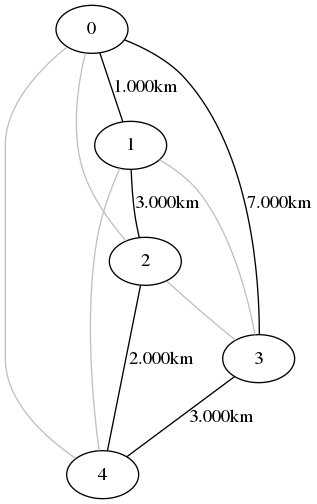
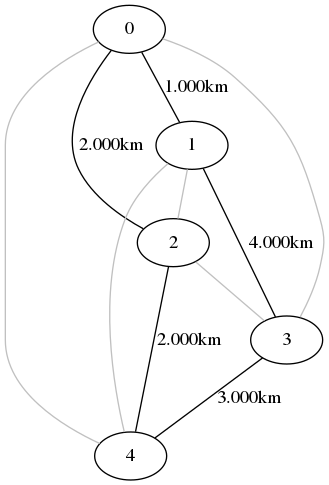
busca local com trocas consecutivas e 2-opt

diff --git a/src/algoritmos/buscalocal.py b/src/algoritmos/buscalocal.py
@@ -1,0 +1,78 @@
+import itertools
+def busca(dic_instancia, rota, custo):
+    #funcao pra busca local trocando consecutivos
+    d = dic_instancia["distancia"]
+    N = len(rota)
+    rota[-1] = N-1
+    # print(N)
+    melhor = True
+    while melhor:
+        melhor = False
+        melhor_rota, melhor_custo = rota, custo 
+        for i in range(1, N-2):
+            cur = rota[i]
+            prev = rota[i-1]
+            nxt = rota[i+1]
+            novo_custo = custo - d[prev][cur] - d[cur][nxt] - d[nxt][rota[i+2]] # remove arestas antigas
+            novo_custo += d[prev][nxt] + d[nxt][cur] + d[cur][rota[i+2]]    # acrescenta arestas novas
+            # print("novo custo = %.3f\n" %novo_custo)
+            if novo_custo < melhor_custo and novo_custo > 0:
+                melhor_custo = novo_custo
+                rota[i], rota[i+1] = rota[i+1], rota[i]
+                melhor_rota = rota.copy()
+                # print(rota)
+                # print()
+                rota[i], rota[i+1] = rota[i+1], rota[i]
+                melhor = True
+        rota = melhor_rota
+        custo = melhor_custo
+        # print(custo)
+    rota[-1] = 0
+    return rota, custo
+
+def two_opt(dic_instancia, rota, custo):
+    d = dic_instancia["distancia"]
+    N = len(rota)
+    print(N)
+    rota[-1] = N-1
+    melhor = True
+    while melhor:
+        melhor = False
+        melhor_rota, melhor_custo = rota, custo
+        for i in range(N-3):
+            for j in range(i+2, N-1):
+                cur, nxt_cur = rota[i], rota[i+1]
+                nxt, nxt_nxt = rota[j], rota[j+1]
+                rota[i+1], rota[j] = rota[j], rota[i+1]
+                novo_custo = 0
+                for k in range(N-1):
+                    novo_custo += d[k][k+1]
+                if novo_custo < melhor_custo:
+                    melhor_custo = novo_custo
+                    melhor_rota = rota.copy()
+                    melhor = True
+                rota[i+1], rota[j] = rota[j], rota[i+1]
+        rota = melhor_rota
+        custo = melhor_custo
+    rota[-1] = 0
+    return rota, custo
+
+def brute(dic_instancia):
+    d = dic_instancia["distancia"]
+    N = len(d)
+    p = []
+    for i in range(1, N-1):
+        p += [i]
+    melhor_rota, melhor_custo = [], 999999999
+    for perm in itertools.permutations(p):
+        temp = [0] + list(perm) + [N-1]
+        novo_custo = 0
+        for i in range(N-1):
+            novo_custo += d[temp[i]][temp[i+1]]
+        if novo_custo < melhor_custo:
+            melhor_custo = novo_custo
+            melhor_rota = temp.copy()
+        # print(temp)
+        # print(novo_custo)
+        # print()
+    return melhor_rota, melhor_custo

diff --git a/src/principal.py b/src/principal.py
@@ -13,6 +13,7 @@ if __name__ == "__main__":
     from src.esinstancias import entradainstancias
     from src.esinstancias import saidainstancias
     from src.algoritmos import construtivopcv
+    from src.algoritmos import buscalocal
 
 ### usado apenas como biblioteca 
 else:
@@ -20,6 +21,7 @@ else:
     from src.configuracoes import leituraconfiguracoes
     from src.esinstancias import entradainstancias
     from src.esinstancias import saidainstancias
+    from src.algoritmos import construtivopcv
     from src.algoritmos import construtivopcv
 
 ###############################################################################
@@ -63,9 +65,15 @@ def main():
                 saidainstancias.grafo_caixas_do_cliente(dic_instancia_corrente)
 
             solucao_pcv, custo_pcv = construtivopcv.pcv(dic_instancia_corrente)
-            #print(f"Solucao {instancia_corrente} = {solucao_pcv} com custo = %.3f\n" %custo_pcv)
-            saidainstancias.grafo_solucao_pcv(dic_instancia_corrente, solucao_pcv)
+            print(f"Solucao {instancia_corrente} = {solucao_pcv} com custo = %.3f\n" %custo_pcv)
+            #saidainstancias.grafo_solucao_pcv(dic_instancia_corrente, solucao_pcv)
 
+            solucao_bl, custo_bl = buscalocal.two_opt(dic_instancia_corrente, solucao_pcv, custo_pcv)
+            print(f"Solucao {instancia_corrente} = {solucao_bl} com custo = %.3f\n" %custo_bl)
+
+            solucao_bruta, custo_bruta = buscalocal.brute(dic_instancia_corrente)
+            print(f"Solucao {instancia_corrente} = {solucao_bruta} com custo = %.3f\n" %custo_bruta)
+            saidainstancias.grafo_solucao_pcv(dic_instancia_corrente, solucao_bruta)
             ##### dic_solucao_corrente = algoritmos.construtivo(dic_instancia_corrente, configuracoes)
             
             ##### saidasolucao.cria_grafos(dic_instancia_corrente,dic_solucao_corrente, configuracoes)
